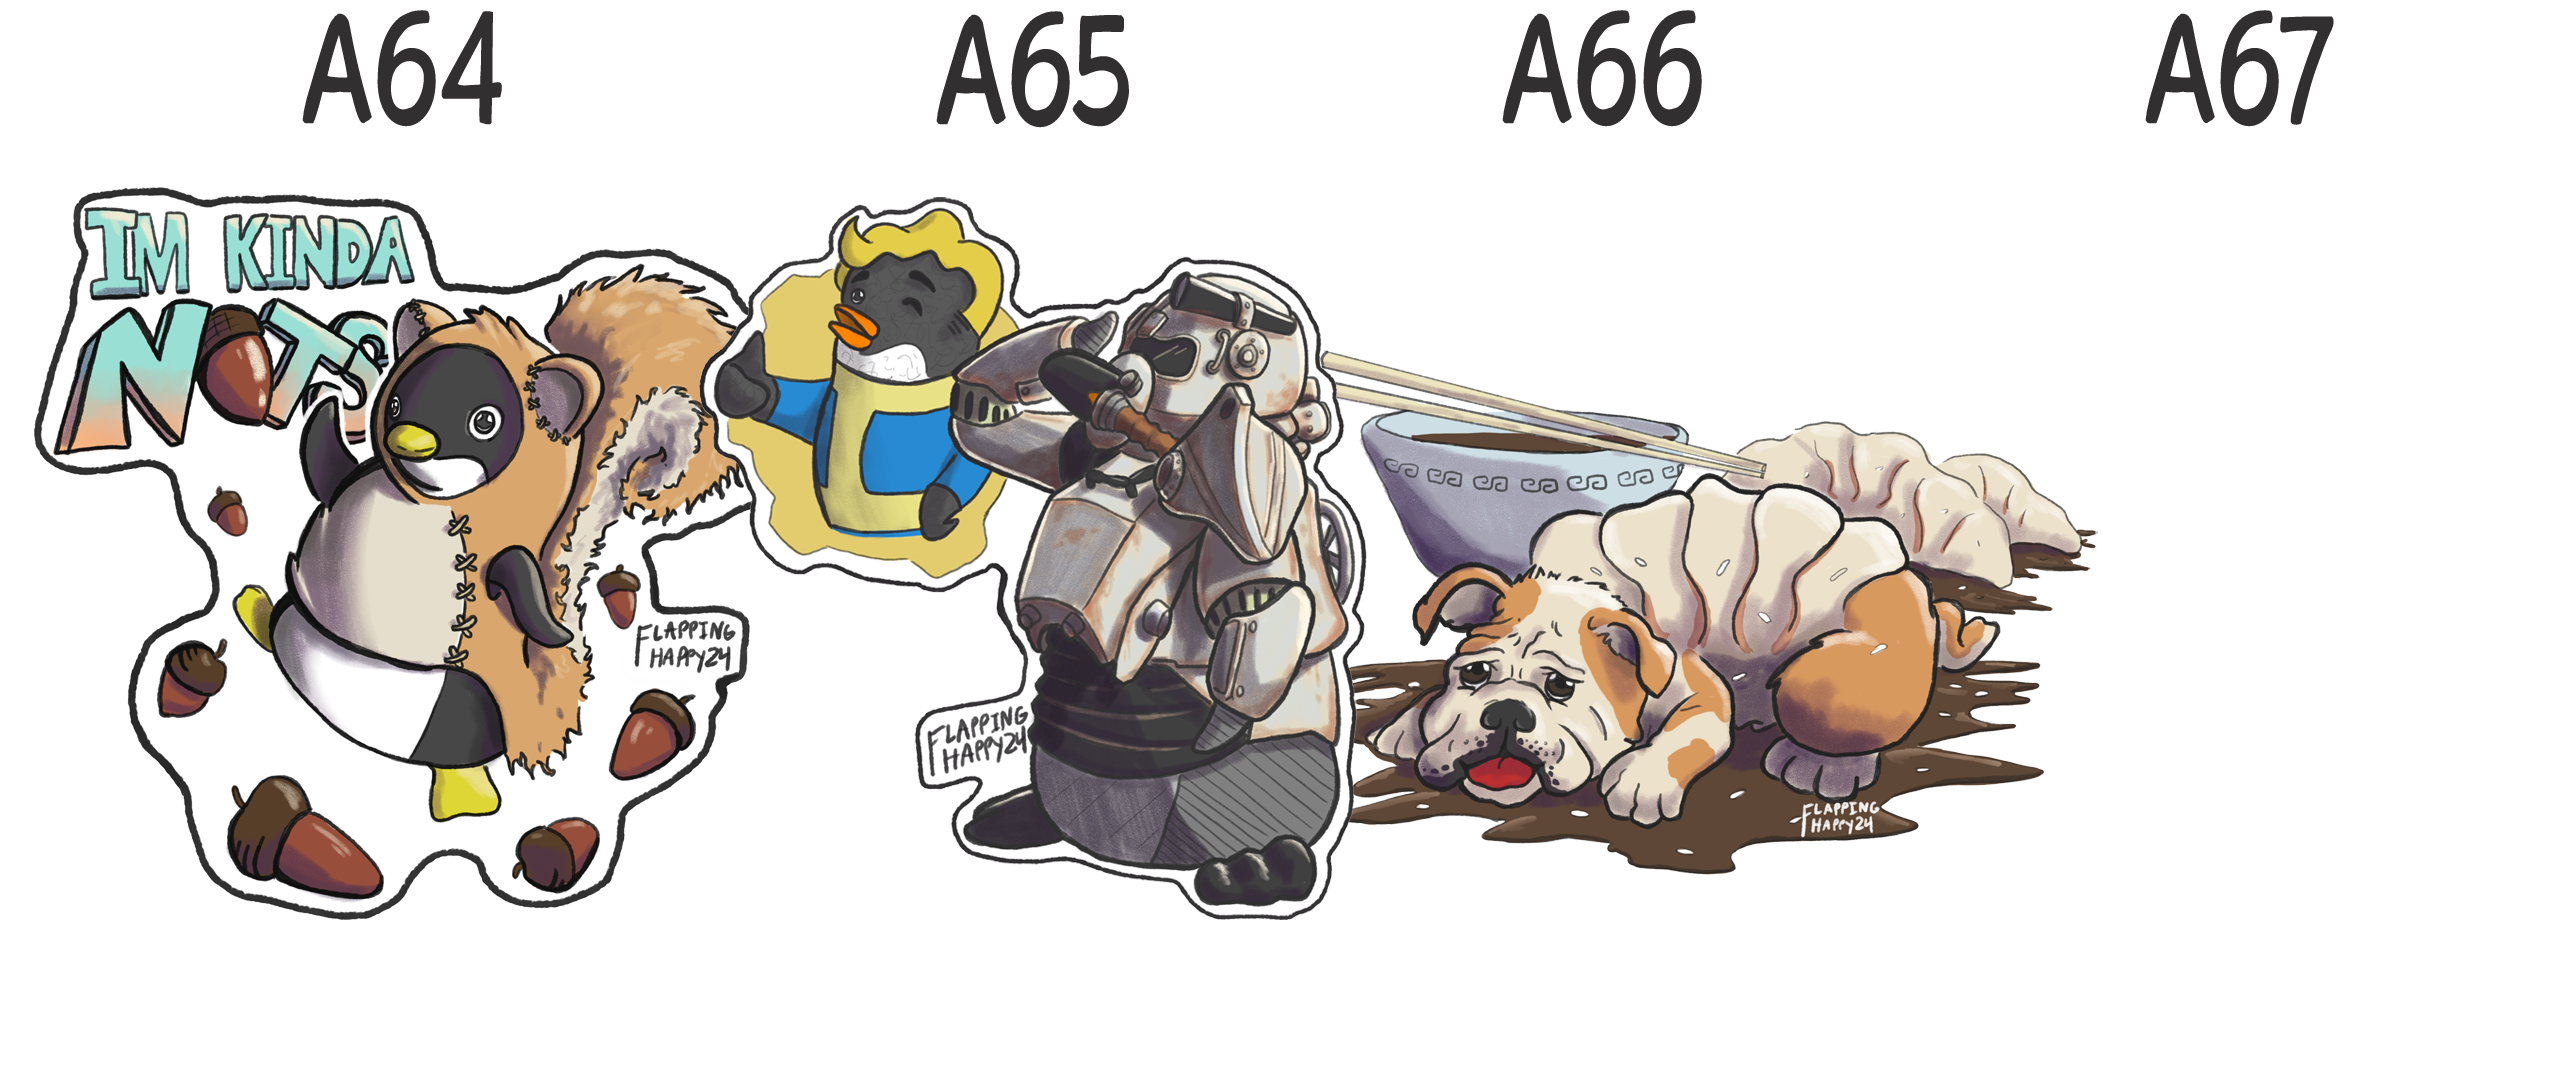
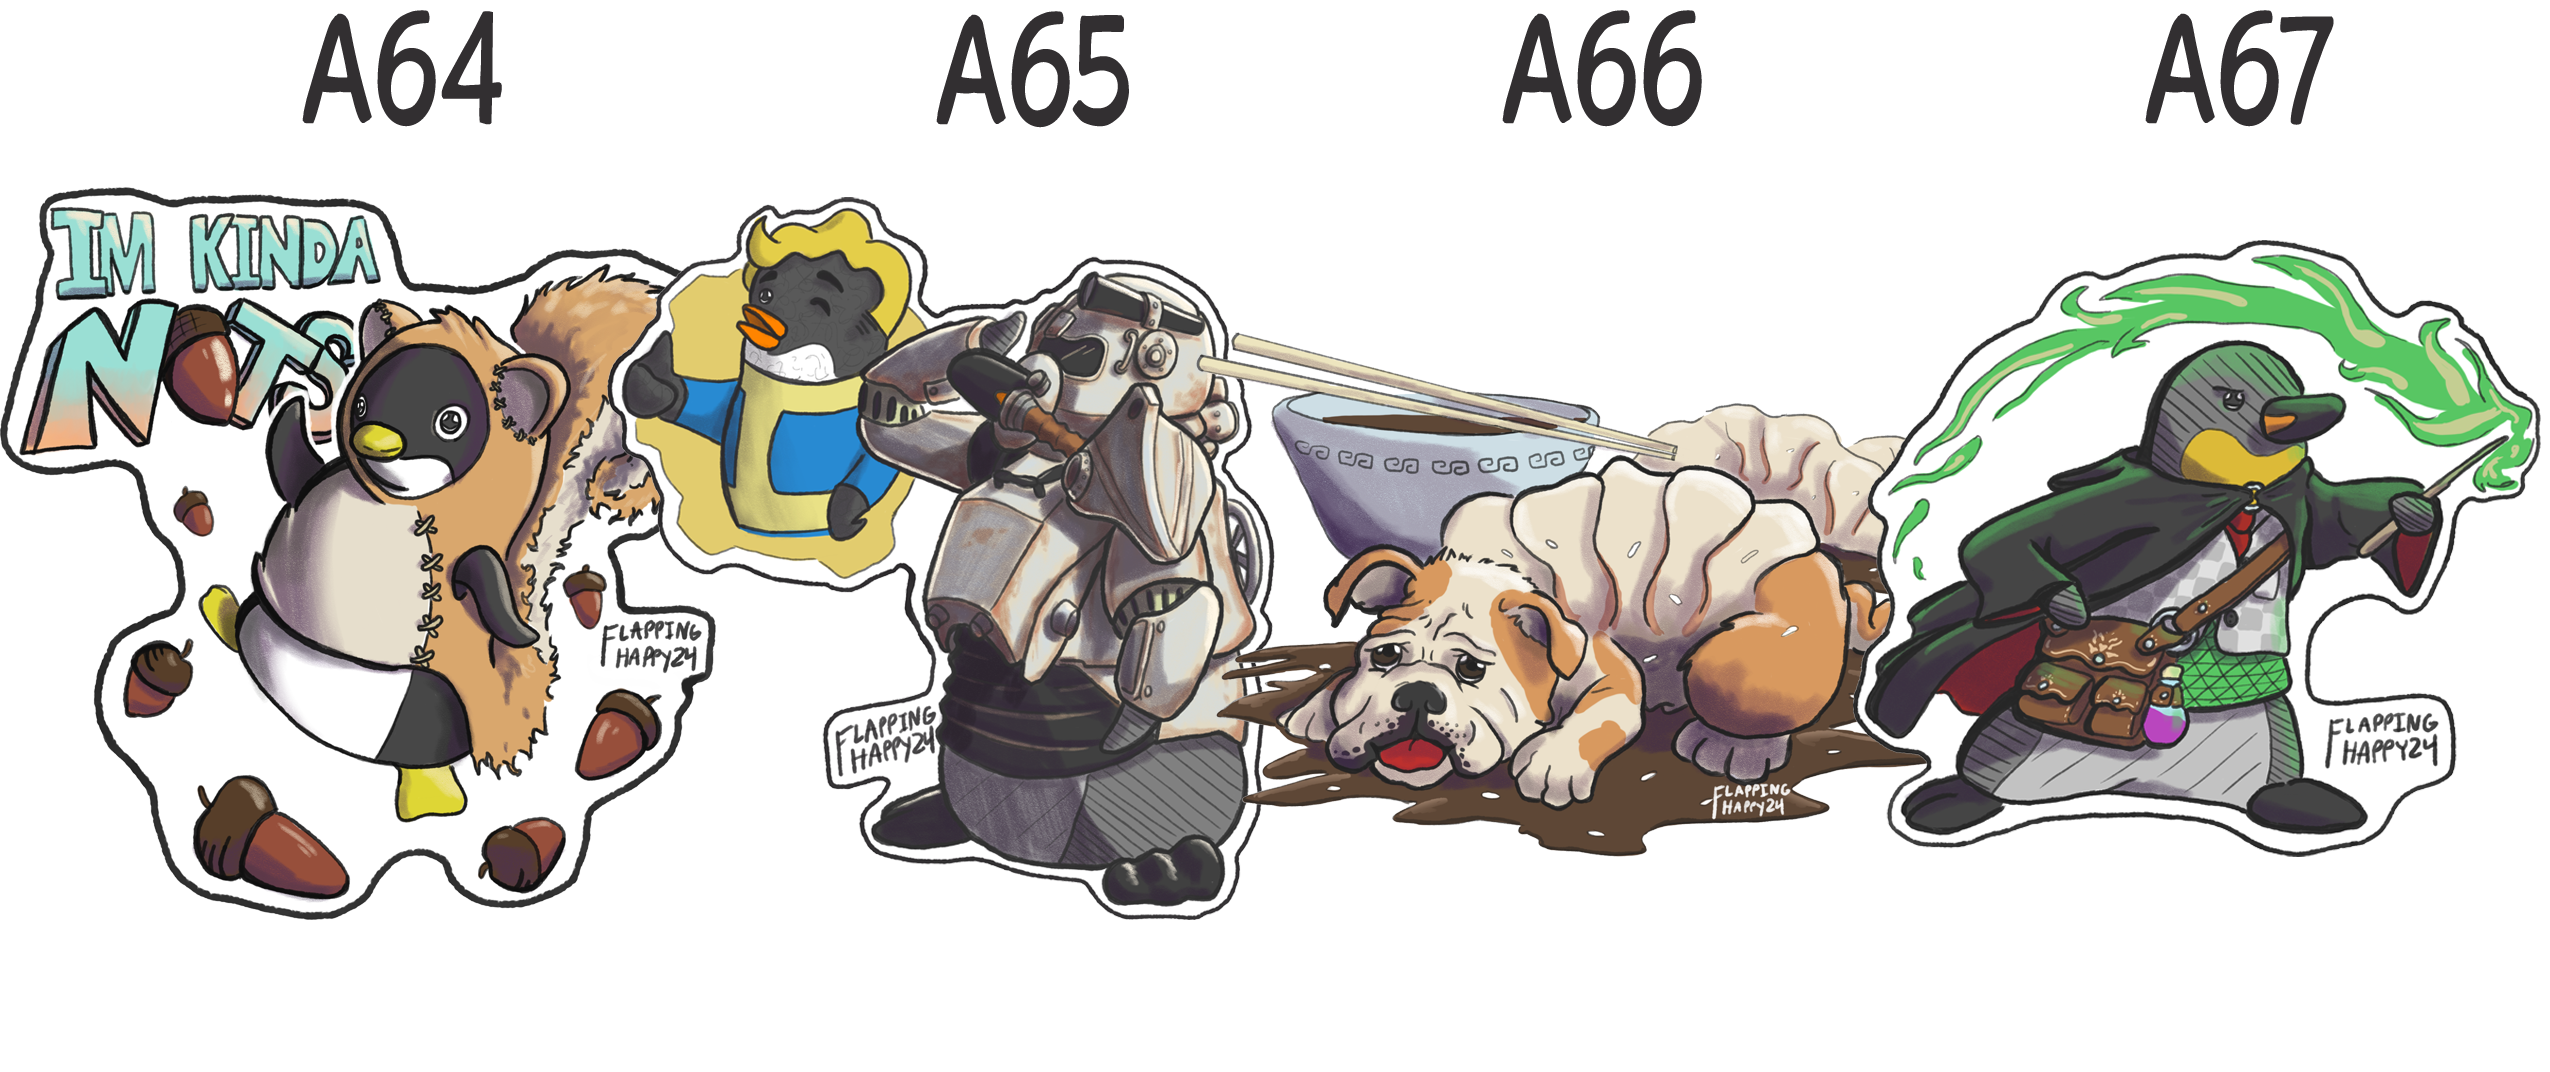
Add files via upload

diff --git a/shop.html b/shop.html
@@ -147,6 +147,7 @@
 						<option value="A064">A64</option>
 						<option value="A065">A65</option>
 						<option value="A066">A66</option>
+						<option value="A066">A67</option>
 						
 					</select>
 					<br><br>
@@ -271,6 +272,7 @@
 						<option value="A064">A64</option>
 						<option value="A065">A65</option>
 						<option value="A066">A66</option>
+						<option value="A066">A67</option>
 						<option value="S001">S1</option>
 						<option value="S002">S2</option>
 						<option value="S003">S3</option>
@@ -397,6 +399,7 @@
 						<option value="A064">A64</option>
 						<option value="A065">A65</option>
 						<option value="A066">A66</option>
+						<option value="A066">A67</option>
 						
 					</select>
 					<br><br>
